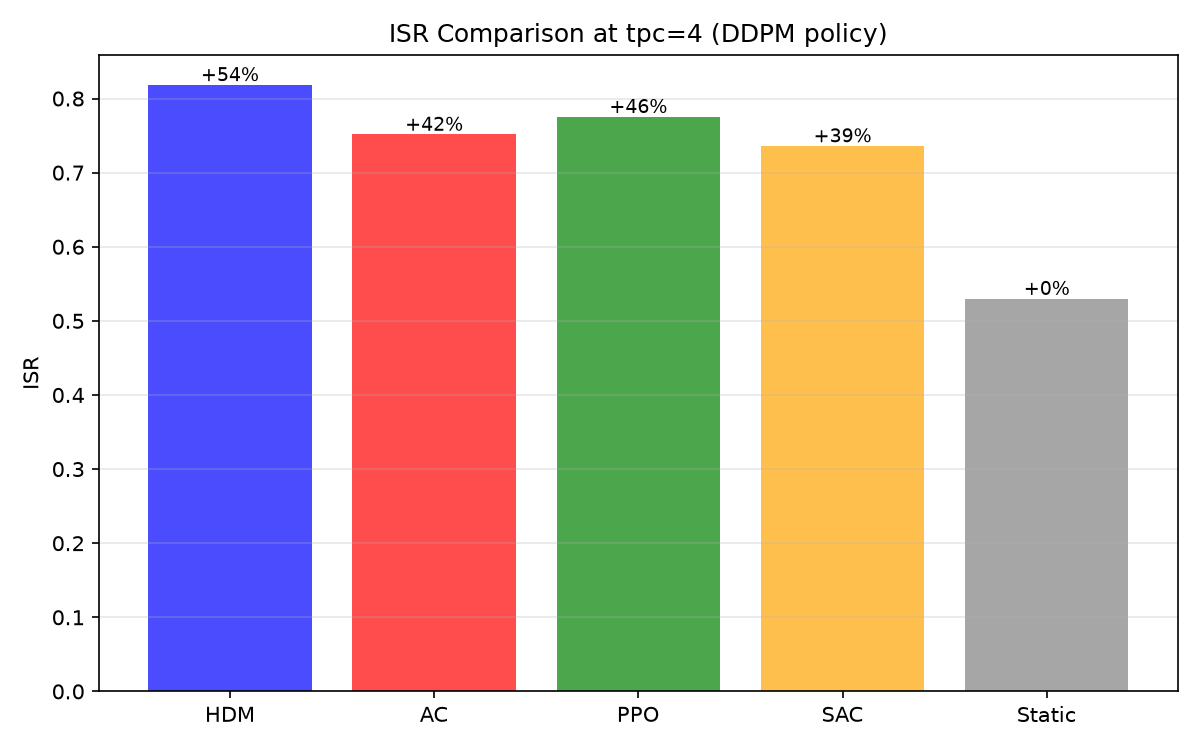
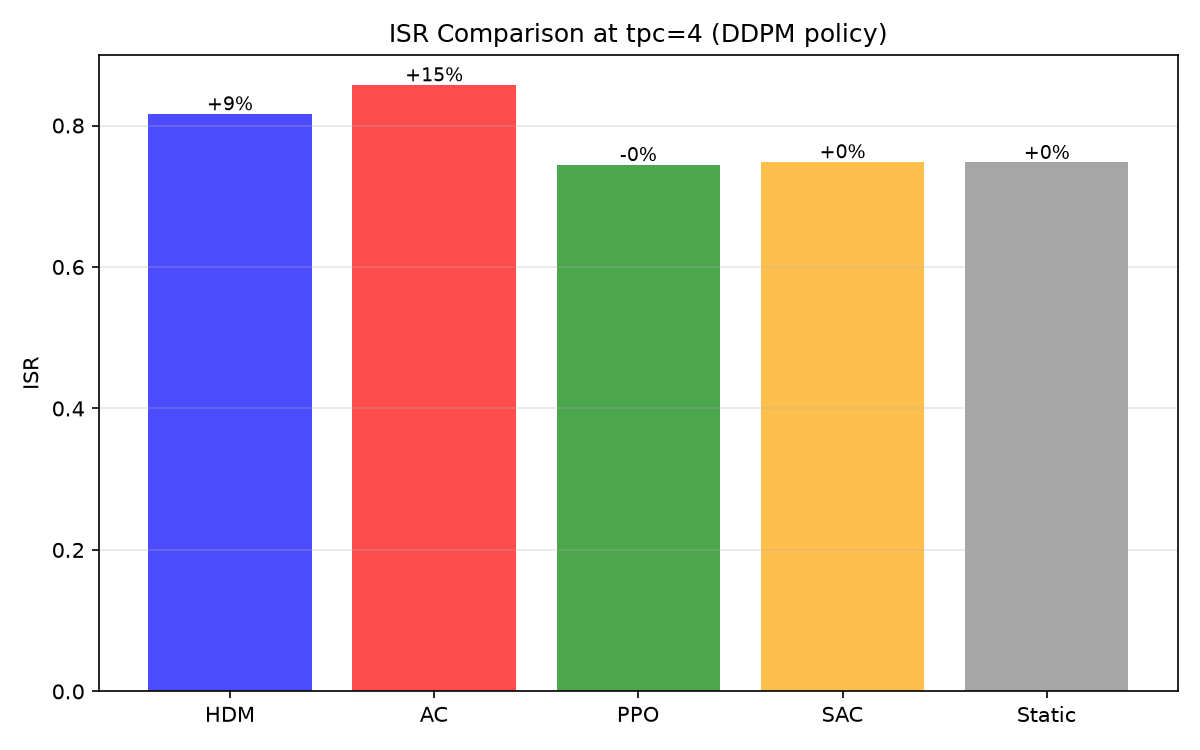
Run E: dynamic graph + relay action + SINR-adaptive Static
Results (ISR):
  tpc=1:  HDM=0.915 AC=0.961 PPO=0.961 SAC=0.758 Static=0.842
  tpc=2:  HDM=0.860 AC=0.864 PPO=0.862 SAC=0.856 Static=0.816
  tpc=4:  HDM=0.817 AC=0.858 PPO=0.745 SAC=0.749 Static=0.748
  tpc=10: HDM=0.590 AC=0.731 PPO=0.756 SAC=0.736 Static=0.624

Ablation: HAN=-2.5% (MLP=0.844, HAN=0.822)
N-step:   N5=0.825 N6=0.838 N7=0.809

Fixes applied vs Run D:
  - SINR-adaptive Static (was fixed-QPSK)
  - Relay in DDPM action space (action_dim 80->180 at tpc=4)
  - Dynamic graph topology per episode
  - Grad clip: critic=1.0, actor+HAN=0.5

diff --git a/check_features.py b/check_features.py
@@ -38,7 +38,7 @@ def main():
           "  (should be > 0)")
 
     print("\n== 2. HAN graph shapes ==")
-    han = HANNetwork(256, 8, 3, 5, 5, 5, 5).to(device)
+    han = HANNetwork(256, 8, 3, 0.1, 5, 5, 5, 5).to(device)
     for tpc in (1, 2, 10):
         e = MultiCSCAEnvironment(difficulty="medium", tasks_per_csca=tpc)
         s = e.generate_state()
